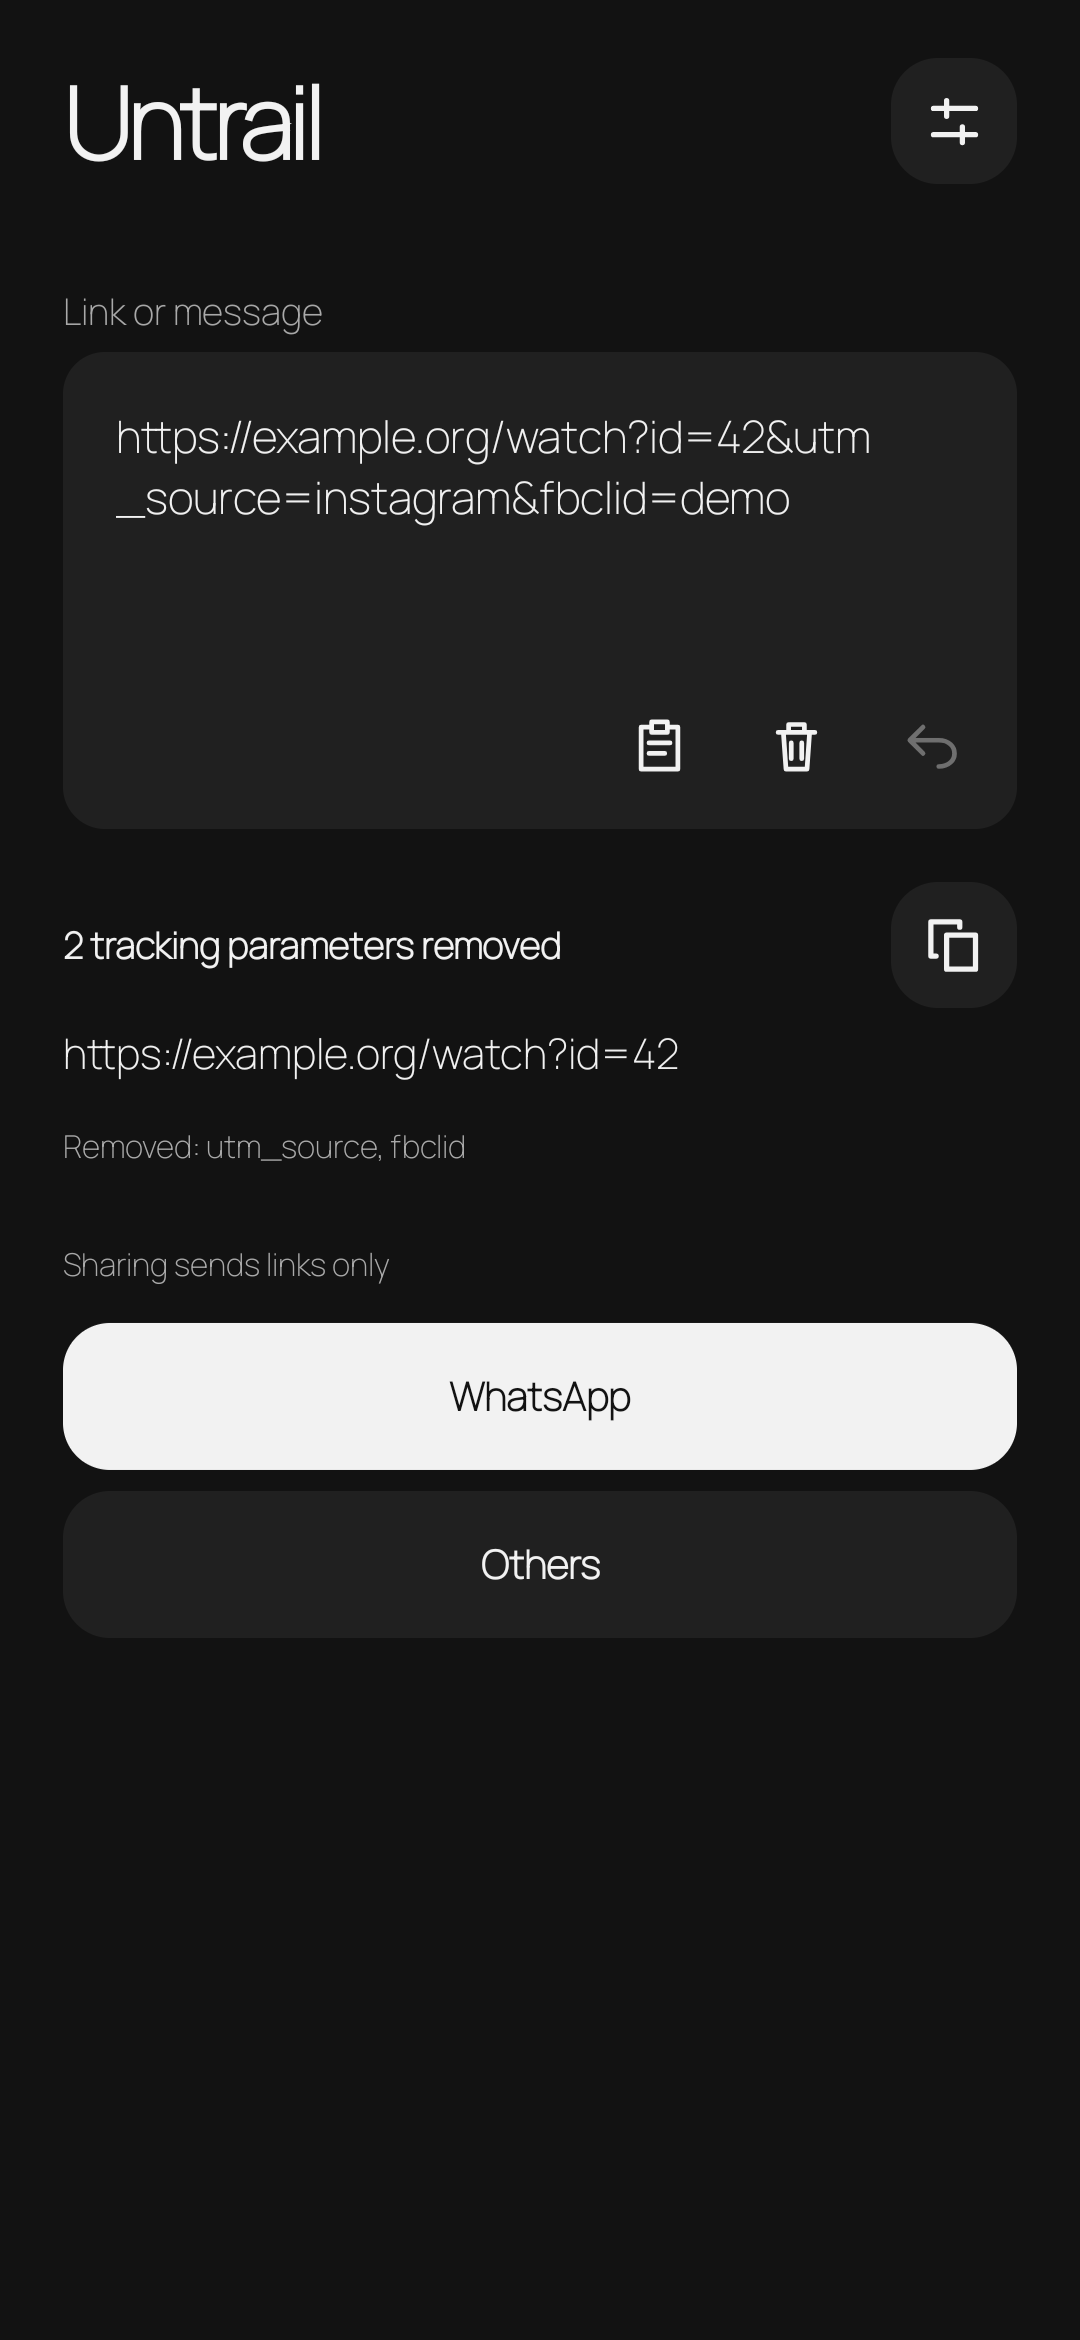
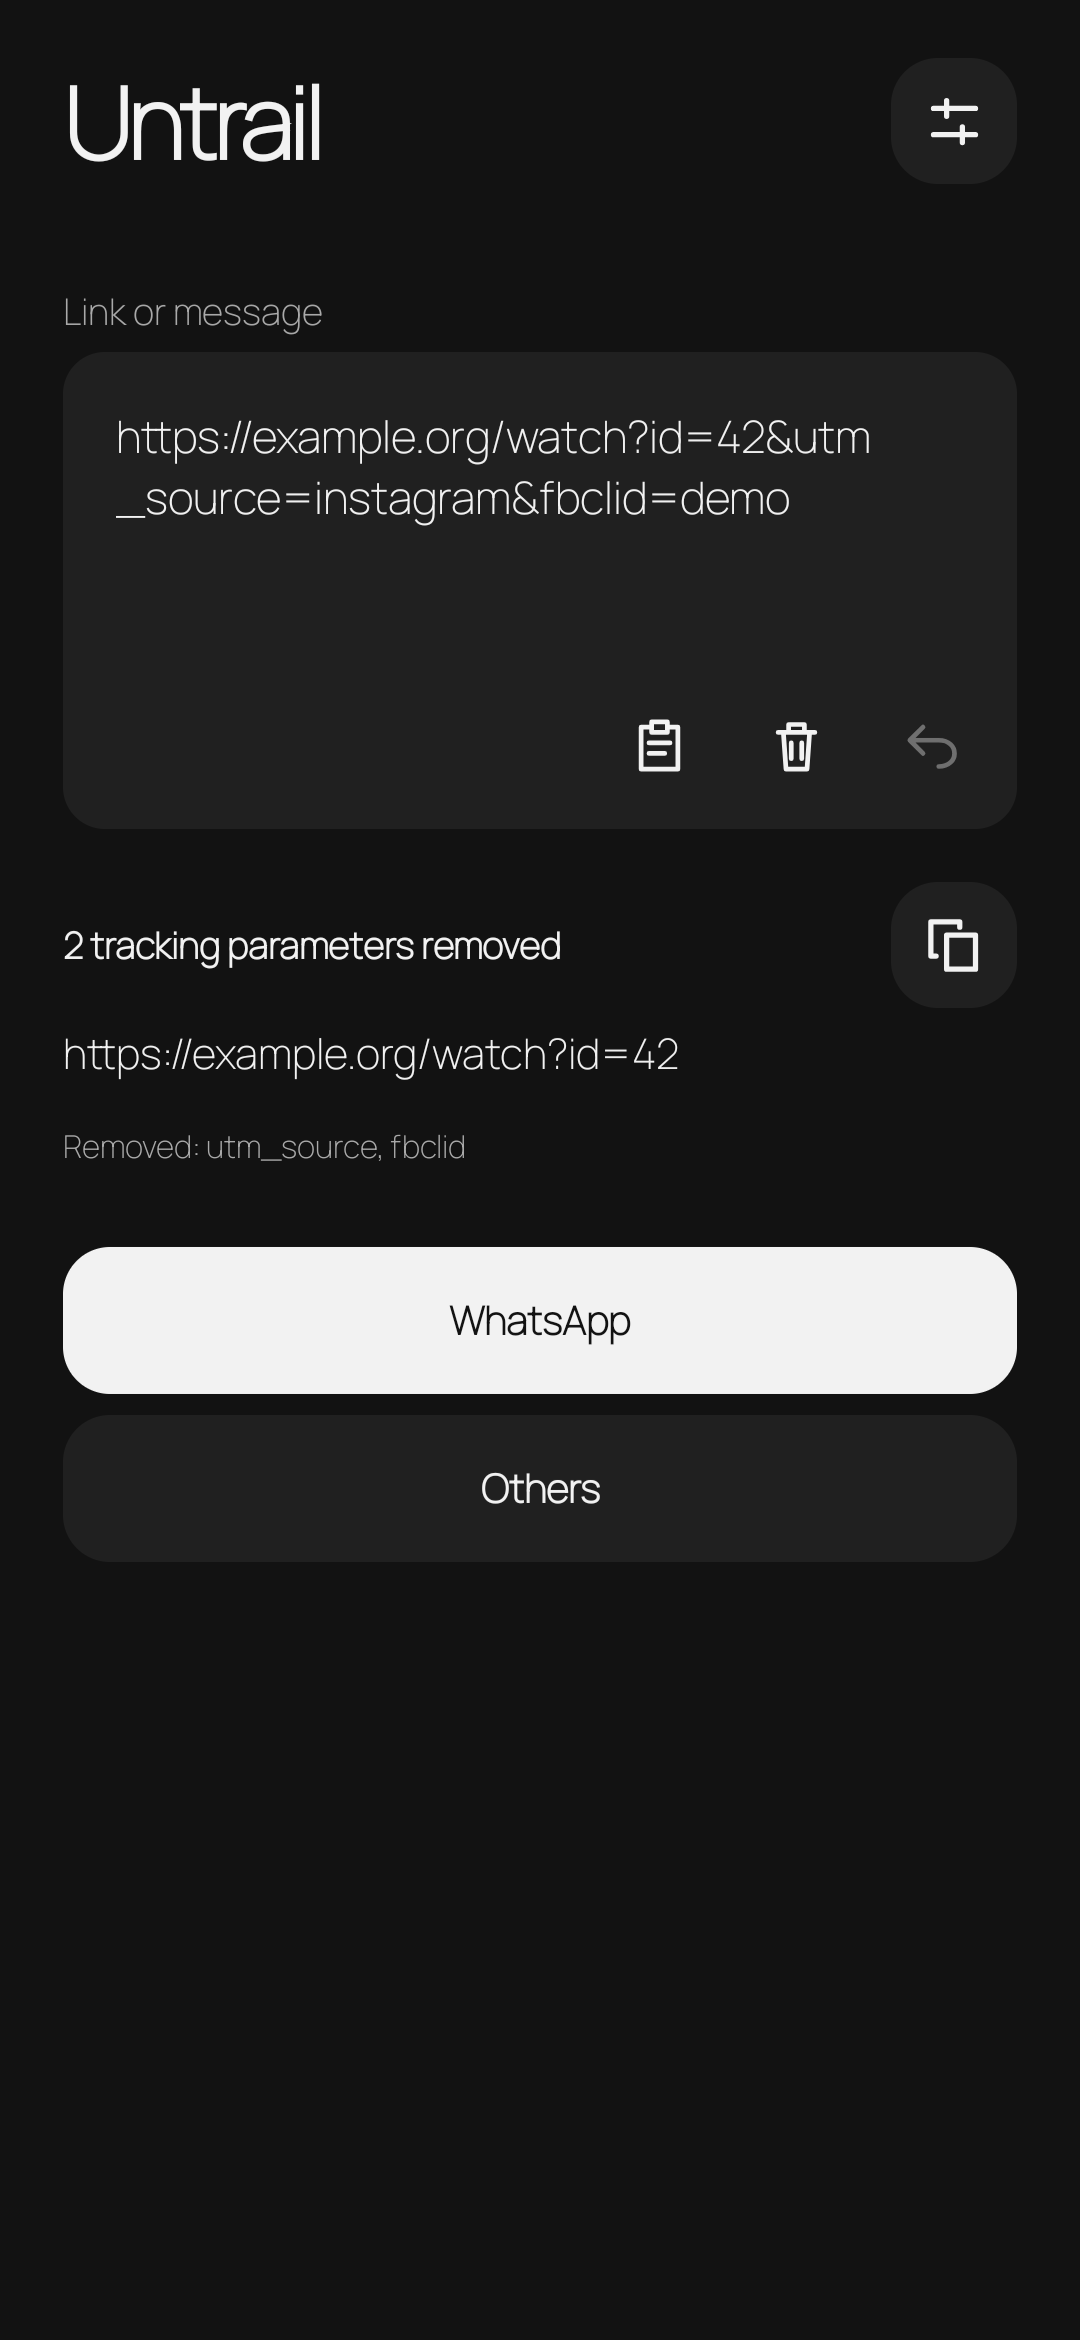
Remove sharing helper label and refresh README screenshots

Changed region(s): [[0.0611, 0.5303, 0.9472, 0.6863]]

diff --git a/app/src/main/java/app/untrail/MainActivity.java b/app/src/main/java/app/untrail/MainActivity.java
@@ -44,7 +44,6 @@ public class MainActivity extends UiActivity {
   copyButton=compactIcon(outputHeader,"Copy cleaned text",R.drawable.ic_copy,()->{if(hasText()){((ClipboardManager)getSystemService(CLIPBOARD_SERVICE)).setPrimaryClip(ClipData.newPlainText("Untrail",cleaned.text));Toast.makeText(this,"Copied",Toast.LENGTH_SHORT).show();}});
   result=label(outputPanel,"",16,ink);result.setTextIsSelectable(true);result.setPadding(0,dp(6),0,dp(10));
   removedDetail=label(outputPanel,"",12,muted);space(outputPanel,16);
-  label(body,"Sharing sends links only",12,muted);
   whatsappButton=button(body,"WhatsApp",()->send(true));
   othersButton=button(body,"Others",()->send(false));
   input.addTextChangedListener(new TextWatcher(){public void beforeTextChanged(CharSequence s,int a,int c,int f){} public void onTextChanged(CharSequence s,int a,int b,int c){update();}public void afterTextChanged(Editable e){}});

diff --git a/README.md b/README.md
@@ -37,7 +37,7 @@ Run the standalone cleaner and draft-policy tests (only a JDK is needed):
 bash scripts/test.sh
 ```
 
-The 109 checks cover link preservation, redirects, long inputs, typing boundaries, Undo, and cursor mapping. On-device checks should also cover sharing, text selection, settings navigation, and accessibility behavior. The README images are Android emulator captures with system bars hidden, using the same fictional example link in light and dark mode.
+The 109 checks cover link preservation, redirects, long inputs, typing boundaries, Undo, and cursor mapping. On-device checks should also cover sharing, text selection, settings navigation, and accessibility behavior. The screenshots show the current development UI in light and dark mode, with system bars hidden and the same fictional example link.
 
 ## Release
 
